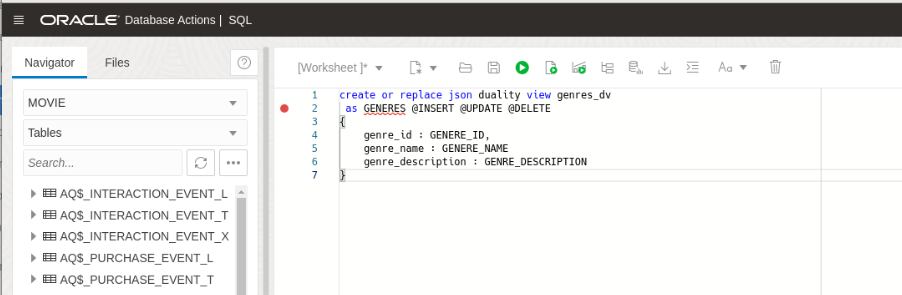
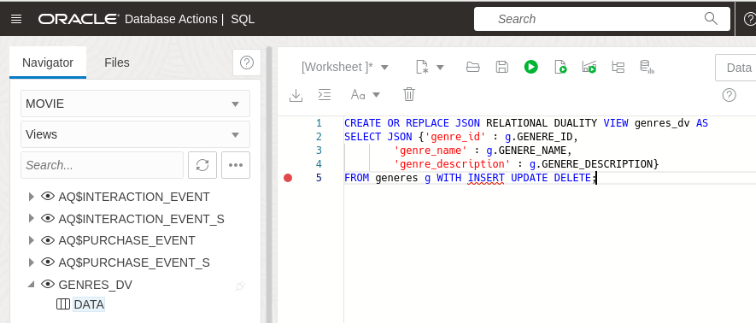
update to the current LL repo

Changed region(s): [[0.0, 0.0, 1.0, 1.0], [0.0304, 0.3051, 0.0913, 0.3661]]

diff --git a/JSON Duality cloud world/create-views/create-views.md b/JSON Duality cloud world/create-views/create-views.md
@@ -25,13 +25,13 @@ This lab assumes you have:
 ## Task 1: Create the duality views
 
 
-1. We create Duality views by defining the documents structure and describing where the data comes from. The following Duality View we will create will list the generes table information. We can also define each operation thats possible against the underlying table. Here we are setting `WITH INSERT UPDATE DELETE`. 
+1. We create Duality Views by defining the documents structure and describing where the data comes from. The following Duality View we  create will list the `genres` table information. We can also define each operation against the underlying table. Here we are setting `WITH INSERT UPDATE DELETE`. 
     
     Create the `genres_dv` duality view. You can either click the trash to clear the worksheet or delete what is there before pasting the code below. Copy the sql below and click **Run Script**
 
     ```
     <copy>
-    CREATE OR REPLACE JSON RELATIONAL DUALITY VIEW genres_dv2 AS
+    CREATE OR REPLACE JSON DUALITY VIEW genres_dv AS
     SELECT JSON {'genre_id' : g.GENERE_ID,
             'genre_name' : g.GENERE_NAME,
             'genre_description' : g.GENERE_DESCRIPTION}
@@ -40,7 +40,7 @@ This lab assumes you have:
     ```
 	![Creating the genre view](images/genre-dv.png " ")
 
-2. On the other hand, we can use a GraphQL syntax to create the view. In this example we will create the `movies_dv` duality view. With GraphQL we will rely on the database to work out the relationships between the tables. The `movies_dv` lists out movie details including an array of generes within movie_details. Since this is for the movie_details table we set those to @insert, @update, @delete. You can either click the trash to clear the worksheet or delete what is there before pasting the code below. Copy the GraphQL syntax below and click **Run Script**
+2. On the other hand, we can use a GraphQL syntax to create the view. In this example we will create the `movies_dv` duality view. With GraphQL we will rely on the database to work out the relationships between the tables. The `movies_dv` lists out movie details including an array of genres. We will also set this view to @insert, @update, @delete. You can either click the trash icon to clear the worksheet or delete what is there before pasting the code below. Copy the GraphQL syntax below and click **Run Script**
 
 	```
 	<copy>
@@ -67,7 +67,7 @@ This lab assumes you have:
     ```
     ![Creating the movie view](images/movies-dv.png " ")
 
-3. Now that we have our Duality Views, lets see how teh `genres_dv` looks. Copy the sql below and click **Run Script**
+3. Now that we have our Duality Views created, lets see how the `genres_dv` looks. Copy the sql below and click **Run Script**
 
 	```
 	<copy>
@@ -77,7 +77,7 @@ This lab assumes you have:
     ![Showing the movie view](images/movie-dv-select.png " ")
 
 ## Task 2: Adding to our movie schema
-1. Insert a new genre into the `GENRES_DV` table to include kid-friendly movies. Use the following SQL script: Copy the sql below and click **Run Statement**
+1. Insert a new genre into the `GENRES_DV` table to include kid-friendly movies. Copy the sql below and click **Run Statement**
 
 	```
 	<copy>
@@ -86,7 +86,16 @@ This lab assumes you have:
     ```
     ![adding into genre](images/kids.png " ")
 
-2. Insert a collection of documents into `MOVIES_DV`. This automatically populates the `MOVIE_DETAILS` and the `MOVIE_GENERE_MAPPING` table. If you remember the movies duality view joins movie_details and movies to genre mappings. It also allows inserts into both tables. Copy the sql below and click **Run Script**
+2. Populating a duality view automatically updates the data shown in related duality views by updating their underlying tables. Lets take a look at the `genres_dv` Duality View. Copy the sql below and click **Run Script**:
+
+    ```
+    <copy>
+    SELECT json_serialize(data PRETTY) FROM GENRES_DV g WHERE g.data.genre_name = 'Kids';
+    </copy>
+    ```
+    ![Adding the Kids genre](images/kids-genre.png " ")
+
+3. Insert a collection of documents into `MOVIES_DV`. This automatically populates the `MOVIE_DETAILS` and the `MOVIE_GENERE_MAPPING` table. If you remember the movies duality view joins movie_details and movies to genre mappings. It also allows inserts into both tables. Copy the sql below and click **Run Script**
 
     ```
     <copy>
@@ -119,24 +128,17 @@ This lab assumes you have:
 	![adding new movies](images/surfs.png " ")
 
 
-3. Populating a duality view automatically updates the data shown in related duality views by updating their underlying tables. For example, inserting documents into the `MOVIES_DV` duality view updates both the `MOVIE_DETAILS` table and the movies to genre mappings table.
+3. to reiterate, populating a duality view automatically updates the data shown in related duality views by updating their underlying tables. For example, inserting documents into the `MOVIES_DV` duality view updates both the `MOVIE_DETAILS` table and the `movies_genere_map` table.
 
-    To verify the changes, you can list the contents of the `MOVIES_DV` and `GENRES_DV` duality views. These views are based on the `MOVIES_DETAILS` and `GENERES` tables, respectively. Copy the sql below and click **Run Script**:
-
-    ```
-    <copy>
-    SELECT json_serialize(data PRETTY) FROM GENRES_DV g WHERE g.data.genre_id = 25;
-    </copy>
-    ```
-    ![Image alt text](images/kids-genre.png " ")
+    To verify the changes, list the contents of the `MOVIES_DV` duality view. Copy the sql below and click **Run Script**:
 
     ```
     <copy>
     SELECT json_serialize(data PRETTY)
-    FROM movies_dv WHERE json_value(data, '$.movie_id') IN (4004, 4005);
+    FROM movies_dv WHERE json_value(data, '$.title') IN ('Surfs Up', 'Ratatouille');
     </copy>
     ```
-    ![Image alt text](images/select-surfs.png " ")
+    ![selecting the surfs up movie ](images/select-surfs.png " ")
 
 
 ## Task 3: Replace and fetch a document by ID
@@ -153,12 +155,12 @@ This lab assumes you have:
 
     ```
     <copy>
-    SELECT json_serialize(data PRETTY) FROM movies_dv m WHERE m.data.movie_id= 4005;
+    SELECT json_serialize(data PRETTY) FROM movies_dv m WHERE m.data.title = 'Ratatouille';
     </copy>
     ```
     ![showing no document](images/rat-etag.png " ")
 
-3. This shows us the current etage is, "etag" : "E5AB725AD046CA8BE4AA301E08CB4329". Lets replace the full document and replace the summary and genres details. Copy the SQL below and click **Run Script**.
+3. This shows us the current etag is, "etag" : "E5AB725AD046CA8BE4AA301E08CB4329". Lets replace the full document and change the summary section as well as add genres details. Copy the SQL below and click **Run Script**.
     ```
     <copy>
 
@@ -202,7 +204,7 @@ This lab assumes you have:
 
     ```
     <copy>
-    SELECT json_serialize(data PRETTY) FROM movies_dv m WHERE m.data.movie_id= 4005;
+    SELECT json_serialize(data PRETTY) FROM movies_dv m WHERE m.data.title = 'Ratatouille';
     </copy>
     ```
     We can see the genres, Family, Animation, Kids, and Adventure along with the a new etag of 03D7F05ED195CFF7728D568AC069C909.
@@ -217,7 +219,7 @@ This lab assumes you have:
     ```
     <copy>
     SELECT json_serialize(data PRETTY)
-    FROM movies_dv WHERE json_value(data, '$.movie_id') = 2355;
+    FROM movies_dv WHERE json_value(data, '$.title') = 'Peter Pan';
     </copy>
     ```
     Here we use json\_transform to update specific fields.
@@ -228,17 +230,17 @@ This lab assumes you have:
 
     ```
     <copy>
-    UPDATE movies_dv m set data = json_transform(data, APPEND '$.genres' =  JSON {'genre_id' : 25, 'genre_name' : 'Kids'} ) WHERE m.data.movie_id = 2355;
+    UPDATE movies_dv m set data = json_transform(data, APPEND '$.genres' =  JSON {'genre_id' : 25, 'genre_name' : 'Kids'} ) WHERE m.data.title = 'Peter Pan';
     </copy>
     ```
     ![adding a new genre](images/pan-update.png " ")
 
-2. Select from the view to ensure the change is in. In this example we are also showing that you can use json_value in the where clause. Copy the SQL below and click **Run Script**.
+2. Select from the view to ensure the change is in. Copy the SQL below and click **Run Script**.
 
     ```
     <copy>
     SELECT json_serialize(data PRETTY)
-    FROM movies_dv WHERE json_value(data, '$.movie_id') = 2355;
+    FROM movies_dv WHERE json_value(data, '$.title') = 'Peter Pan';
     </copy>
     ```
     ![showing the genre we just added](images/pan-kids.png " ")

diff --git a/JSON Duality cloud world/duality-views/duality-views.md b/JSON Duality cloud world/duality-views/duality-views.md
@@ -26,7 +26,7 @@ This lab assumes you have:
 
     ```
     <copy>
-    SELECT * FROM movie_details where movie_id = 4006;
+    SELECT * FROM movie_details where title = 'Stuart Little';
 
     INSERT INTO MOVIES_DV VALUES('{ "movie_id" : 4006,
                                 "title" : "Stuart Little",
@@ -41,7 +41,7 @@ This lab assumes you have:
                                             "genre_name" : "Family"}]}'
     );
 
-    SELECT * FROM movie_details where movie_id = 4006;
+    SELECT * FROM movie_details where title = 'Stuart Little';
     </copy>
     ```
     ![adding the movie](images/little.png " ")
@@ -50,31 +50,32 @@ This lab assumes you have:
     ```
     <copy>
     SELECT json_serialize(data PRETTY)
-    FROM GENRES_DV WHERE json_value(data, '$.genre_id') = 26;
+    FROM GENRES_DV WHERE json_value(data, '$.genre_name') = 'Psychological Thriller';
 
     INSERT INTO generes
     VALUES(26, 'Psychological Thriller', 'Psychological Thriller: mind-bending suspense, intricate narratives, and gripping twists that keep you on edge. Prepare for intense psychological tension and thrilling storytelling.');
 
     SELECT json_serialize(data PRETTY)
-    FROM GENRES_DV WHERE json_value(data, '$.genre_id') = 26;
+    FROM GENRES_DV WHERE json_value(data, '$.genre_name') = 'Psychological Thriller';
+
     </copy>
     ```
     
     ![adding a new description](images/psy_thriller.png " ")
 
-## Task 2: Update and replace a document by ID
+## Task 2: Duality View benefits
 
 1. Like the previous lab, lets make an update to the `GENRES_DV`. The important thing to note here is, this change will be reflected in **all documents** that contain the Kids genre. Copy the sql below and click **Run Script**
 
     ```
     <copy>
     SELECT json_serialize(data PRETTY)
-    FROM GENRES_DV WHERE json_value(data, '$.genre_id') = 25;
+    FROM GENRES_DV WHERE json_value(data, '$.genre_name') = 'Kids';
     </copy>
     ```
     We can see that the Kids genre exists but has no description. Let's update this via SQL.
 
-    ![showing the genre 25 isnt there](images/no_description.png " ")
+    ![showing the genre 25 description is not there](images/no_description.png " ")
 
 2. Let's update the description of the Kids genre. Copy the sql below and click **Run Statement**
  
@@ -91,7 +92,7 @@ This lab assumes you have:
     ```
     <copy>
     SELECT json_serialize(data PRETTY)
-    FROM GENRES_DV WHERE json_value(data, '$.genre_id') = 25;
+    FROM GENRES_DV WHERE json_value(data, '$.genre_name') = 'Kids';
     </copy>
     ```
     We can see that the Kids genre now has a new description.

diff --git a/JSON Duality cloud world/introduction/ocw-introduction.md b/JSON Duality cloud world/introduction/ocw-introduction.md
@@ -12,7 +12,7 @@ JSON Relational Duality helps to converge the benefits of both document and rela
 
 Key benefits of JSON Relational Duality:
 - Experience extreme flexibility in building apps using Duality View. Developers can access the same data relationally or as hierarchical documents based on their use case and are not forced into making compromises because of the limitations of the underlying database. Build document-centric apps on relational data or create SQL apps on documents.
-- Experience simplicity by retrieving and storing all the data needed for an app in a single database operation. Duality Views provide fully updateable JSON views over data. Apps can read a document, make necessary changes, and write the document back without worrying about underlying data structure, mapping, consistency, or performance tuning. 
+- Experience simplicity by retrieving and storing all the data needed for an app in a single database operation. Duality Views provide fully updatable JSON views over data. Apps can read a document, make necessary changes, and write the document back without worrying about underlying data structure, mapping, consistency, or performance tuning. 
 - Enable flexibility and simplicity in building multiple apps on same data. Developers can use the power of Duality View to define multiple JSON Views across overlapping groups of tables. This flexible data modeling makes building multiple apps against the same data easy and efficient.
 - Duality Views eliminate the inherent problem of data duplication and data inconsistency in document databases. Duality Views are fully ACID (atomicity, consistency, isolation, durability) transactions across multiple documents and tables. It eliminates data duplication across documents data, whereas consistency is maintained automatically. 
 - Build apps that support high concurrency access and updates. Traditional locks don’t work well for modern apps. A new lock-free concurrency control provided with Duality View supports high concurrency updates. The new-lock free concurrency control also works efficiently for interactive applications since the data is not locked during human thinking time.
@@ -23,8 +23,9 @@ Estimated Time: 75 minutes
 
 In this lab, you will:
 * Create JSON Duality Views
-* Perform insert, update, and delete operations against JSON Duality Views
+* Perform insert and update operations against JSON Duality Views
 * Perform both JSON and SQL operations against JSON Duality Views
+* Work with both SQL and REST to modify data using Duality Views
 
 ### Prerequisites
 

diff --git a/JSON Duality cloud world/explore-data/explore-data.md b/JSON Duality cloud world/explore-data/explore-data.md
@@ -50,25 +50,17 @@ This lab assumes you have:
     ![SQL home screen](images/sql-login.png " ")    
 
 ## Task 2: Understanding the data
-1. Throughout this workshop, we will specify whether to click the "Run" button or the "Run Script" button. The "Run" button executes a single SQL statement and displays the output in a data grid. The "Run Script" button executes multiple SQL statements and logs their output. We will highlight which button to use in each step.
+1. Throughout this workshop, we will specify whether to click the "Run Statement" button or the "Run Script" button. The "Run Statement" button executes a single SQL statement and displays the output in a data grid. The "Run Script" button executes multiple SQL statements and logs their output. We will highlight which button to use in each step.
 
     ![showing the run button ](images/run-buttons.png " ")
 
-2. To make this workshop as realistic as possible, let's introduce the business scenario you will be working with - **Oracle MovieStream**.
-
-    ![Logo graphic of Oracle MovieStream](images/moviestream-logo.jpeg)
-
-* Oracle MovieStream is a fictitious online movie streaming company. Customers log into Oracle MovieStream using their computers, tablets, and phones, where they are presented with a personalized list of movies based on their viewing history. The company is now looking for better, smarter ways to track performance, identify customers for targeted campaigns promoting new services and movies, and improve the streaming platform. The scenarios in this workshop are based on challenges that companies face in their businesses. We hope that the labs and workshops will provide you with insights into how Oracle can help you solve these common everyday business and technical challenges.
-
-* During this workshop, we will primarily focus on three key tables: `genres`, `movie_details`, and `movies_genre_map`. As we progress through the upcoming labs, we will explore the creation of duality views spanning across these tables. Additionally, we will explore techniques for efficiently adding, updating, and manipulating the underlying data within these tables using the duality views.
-
-3. Lets take a look at our tables. Copy the sql below and click **Run Statement** 
+2. Lets take a look at the tables we'll be working with. Copy the sql below and click **Run Script** 
 
     ```
     <copy>
     desc GENERES;
     desc MOVIE_DETAILS;
-    desc MOVIE_GENERE_MAP;
+    desc MOVIES_GENERE_MAP;
     </copy>
     ```
     ![looking at the data](images/desc-tables.png " ")

diff --git a/JSON Duality cloud world/create-schema/create-schema.md b/JSON Duality cloud world/create-schema/create-schema.md
@@ -120,6 +120,14 @@ This lab assumes you have:
 
     ![Showing the swingbench UI](images/completing.png " ")
 
+17. To make this workshop as realistic as possible, let's introduce the business scenario you will be working with - **Oracle MovieStream**.
+
+    ![Logo graphic of Oracle MovieStream](images/moviestream-logo.jpeg)
+
+    * Oracle MovieStream is a fictitious online movie streaming company. Customers log into Oracle MovieStream using their computers, tablets, and phones, where they are presented with a personalized list of movies based on their viewing history. The company is now looking for better, smarter ways to track performance, identify customers for targeted campaigns promoting new services and movies, and improve the streaming platform. The scenarios in this workshop are based on challenges that companies face in their businesses. We hope that the labs and workshops will provide you with insights into how Oracle can help you solve these common everyday business and technical challenges.
+
+    * During this workshop, we will primarily focus on three key tables: `genres`, `movie_details`, and `movies_genre_map`. As we progress through the upcoming labs, we will explore the creation of duality views spanning across these tables. Additionally, we will explore techniques for efficiently adding, updating, and manipulating the underlying data within these tables using the duality views.
+
 ## Task 2: Start ORDS
 
 1. Open a new tab in the terminal by selecting **File** and **New Tab** 

diff --git a/JSON Duality cloud world/rest-duality/rest-duality.md b/JSON Duality cloud world/rest-duality/rest-duality.md
@@ -42,7 +42,7 @@ The ORDS installation includes SQL Developer Web, an online tool for managing yo
 
     ![showing the sql tile](./images/show-views.png)
 
-3. Right click on the `GENRES_DV`, hover the mouse over **REST** and click **Enable**.
+3. Right click on the `GENRES_DV`, hover the mouse over **REST** and click **Enable** if it isn't already enabled. See the picture below NOTE: If it is enabled already, it will say Disable... instead. If you see Disable... you don't have to do anything. Skip to number 5.
 
     ![showing the genres duality view ](./images/genre_rest.png)
 
